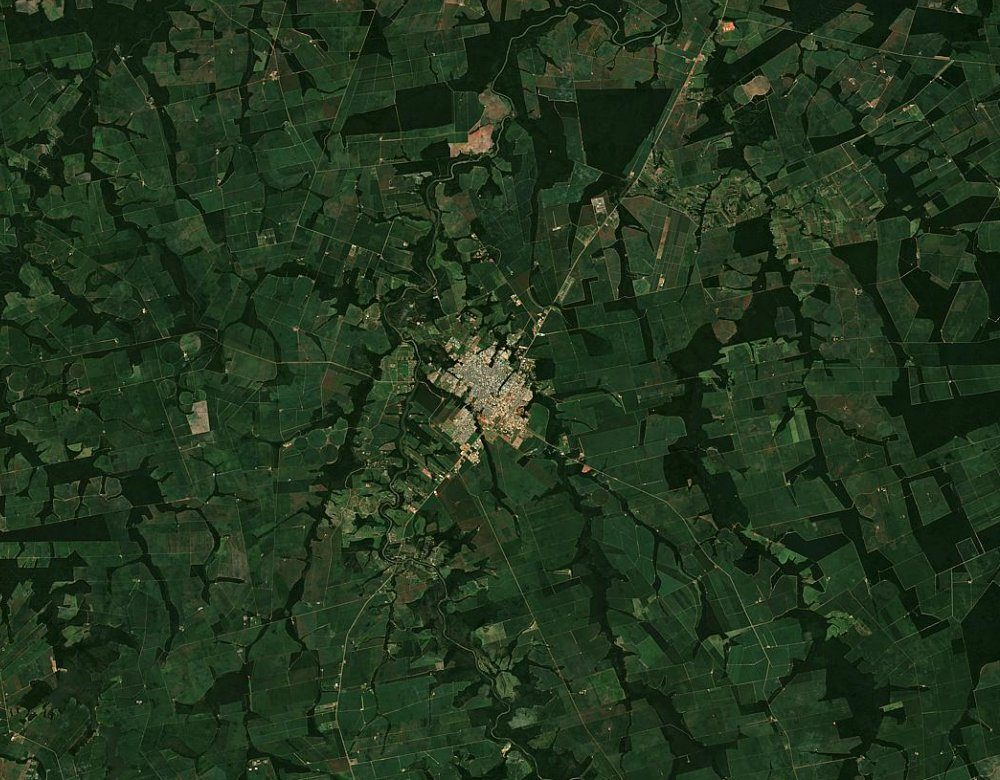
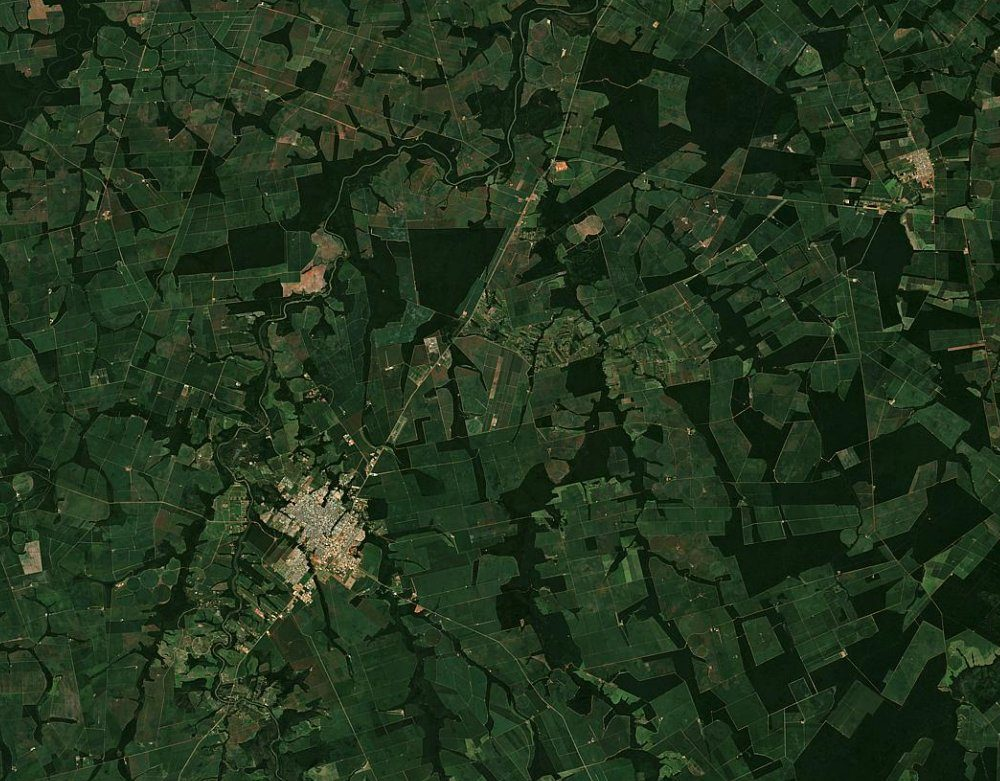
Add farm zoom level with sub-metre aerial imagery
Esri World Imagery for nine regions, USDA NAIP for Iowa; district and field views re-centred on the farm points.

diff --git a/src/components/SatPanel.tsx b/src/components/SatPanel.tsx
@@ -5,10 +5,10 @@ import type { Region, RegionImagery, View } from '../lib/types'
 import { signed, yieldDeviation } from '../lib/model'
 import { Badge } from './Badge'
 
-const LEVELS = ['orbit', 'region', 'district', 'field'] as const
+const LEVELS = ['orbit', 'region', 'district', 'field', 'farm'] as const
 type Level = (typeof LEVELS)[number]
-const LEVEL_LABEL: Record<Level, string> = { orbit: 'Orbit', region: 'Region', district: 'District', field: 'Field' }
-const SCALE: Record<Level, string> = { orbit: '~2,000 km', region: '~800 km', district: '~60 km', field: '~12 km' }
+const LEVEL_LABEL: Record<Level, string> = { orbit: 'Orbit', region: 'Region', district: 'District', field: 'Field', farm: 'Farm' }
+const SCALE: Record<Level, string> = { orbit: '~2,000 km', region: '~800 km', district: '~60 km', field: '~12 km', farm: '~2 km' }
 
 const fmtLat = (v: number) => `${Math.abs(v).toFixed(2)}°${v >= 0 ? 'N' : 'S'}`
 const fmtLon = (v: number) => `${Math.abs(v).toFixed(2)}°${v >= 0 ? 'E' : 'W'}`
@@ -106,7 +106,7 @@ export function SatPanel({ region, img, index }: { region: Region; img: RegionIm
       <div className="viewer">
         {view && (
           <div key={view.src + level} className="viewer-img">
-            <img src={view.src} alt={view.label} className={level === 'district' || level === 'field' ? 's2' : ''} />
+            <img src={view.src} alt={view.label} className={level === 'district' || level === 'field' ? 's2' : level === 'farm' ? 'farm' : ''} />
             {level === 'district' && overlay && views.districtNdvi && (
               <img src={views.districtNdvi.src} alt="NDVI overlay" className="overlay" />
             )}
@@ -124,7 +124,7 @@ export function SatPanel({ region, img, index }: { region: Region; img: RegionIm
           </>
         )}
         <div className="hud tl">{view?.label}</div>
-        <div className="hud tr">{level === 'region' && frames[frame] ? frames[frame].date : level === 'district' || level === 'field' ? '2023 mosaic' : frames.at(-1)?.date}</div>
+        <div className="hud tr">{level === 'region' && frames[frame] ? frames[frame].date : level === 'district' || level === 'field' ? '2023 mosaic' : level === 'farm' ? 'aerial basemap' : frames.at(-1)?.date}</div>
         <div className="hud bl">{focus ? `${fmtLat(focus.lat)}  ${fmtLon(focus.lon)}` : ''}<br />{focus?.place}</div>
         <div className="hud br">▭ {SCALE[level]}</div>
         <div className="brackets"><i /><i /><i /><i /></div>
@@ -145,8 +145,8 @@ export function SatPanel({ region, img, index }: { region: Region; img: RegionIm
             Overlay MODIS NDVI (250 m) on Sentinel-2 (10 m)
           </label>
         )}
-        {(level === 'orbit' || level === 'field') && (
-          <span className="small muted">{level === 'orbit' ? 'Green = dense vegetation. Box shows the region window.' : 'Individual fields, roads and plantation blocks at 10 m.'}</span>
+        {(level === 'orbit' || level === 'field' || level === 'farm') && (
+          <span className="small muted">{level === 'orbit' ? 'Green = dense vegetation. Box shows the region window.' : level === 'field' ? 'Individual fields, roads and plantation blocks at 10 m.' : `${img?.farm?.place ?? ''} — single rows, trees and machinery tracks.`}</span>
         )}
       </div>
 
@@ -175,7 +175,7 @@ export function SatPanel({ region, img, index }: { region: Region; img: RegionIm
 
       {img && <NdviCurve img={img} frame={frames[frame]?.date} />}
       <div className="src-line">
-        <Badge status="real" /> <span className="muted small">MODIS NDVI via NASA GIBS · Sentinel-2 cloudless 2023 by EOX (CC BY-NC-SA 4.0) · weather ERA5 via Open-Meteo</span>
+        <Badge status="real" /> <span className="muted small">MODIS NDVI via NASA GIBS · Sentinel-2 cloudless 2023 by EOX (CC BY-NC-SA 4.0) · farm: Esri World Imagery / USDA NAIP · weather ERA5 via Open-Meteo</span>
       </div>
     </div>
   )

diff --git a/src/index.css b/src/index.css
@@ -427,7 +427,7 @@ input[type='range']::-moz-range-thumb { width: 16px; height: 16px; border-radius
 .sat { display: flex; flex-direction: column; }
 .sat-title { padding: 12px 12px 10px; }
 .sat-name { font-size: 26px; letter-spacing: -0.03em; line-height: 1.02; }
-.zoom-tabs { display: grid; grid-template-columns: repeat(4, 1fr) auto; border-top: 1px solid var(--line); border-bottom: 1px solid var(--line); }
+.zoom-tabs { display: grid; grid-template-columns: repeat(5, 1fr) auto; border-top: 1px solid var(--line); border-bottom: 1px solid var(--line); }
 .zoom-tabs button { background: none; border: 0; border-right: 1px solid var(--line); padding: 7px 4px; font-size: 11px; cursor: pointer; color: var(--muted); }
 .zoom-tabs button.active { color: var(--ink); box-shadow: inset 0 -2px 0 var(--accent); }
 .zoom-tabs button:disabled { opacity: 0.3; cursor: default; }
@@ -497,3 +497,5 @@ input[type='range']::-moz-range-thumb { width: 16px; height: 16px; border-radius
 .alert i { width: 6px; height: 6px; border-radius: 50%; margin-top: 5px; background: var(--down); animation: blink 1.6s ease-in-out infinite; }
 .alert i.pos { background: var(--up); animation: none; }
 @keyframes blink { 50% { opacity: 0.25; } }
+
+.viewer-img img.farm { filter: contrast(1.05) saturate(1.1); }

diff --git a/src/lib/types.ts b/src/lib/types.ts
@@ -67,7 +67,8 @@ export interface RegionImagery {
   frames: Frame[]
   ndvi: [string, number | null][]
   ndviLastYear: [string, number | null][]
-  views: Partial<Record<'orbit' | 'region' | 'district' | 'districtNdvi' | 'field', View>>
+  views: Partial<Record<'orbit' | 'region' | 'district' | 'districtNdvi' | 'field' | 'farm', View>>
+  farm?: { lat: number; lon: number; place: string; source: string }
 }
 
 export interface ImageryFile {
@@ -75,7 +76,7 @@ export interface ImageryFile {
   dates: string[]
   world: Frame[]
   regions: Record<string, RegionImagery>
-  sources: { modis: string; s2: string }
+  sources: { modis: string; s2: string; farm?: string }
 }
 
 export interface RegionFile {

diff --git a/scripts/fetch_imagery.py b/scripts/fetch_imagery.py
@@ -144,7 +144,7 @@ def main() -> None:
             series_ly.append([d.isoformat(), mean_ndvi(b2, cmap) if b2 else None])
             time.sleep(0.2)
 
-        lat, lon, place = FOCUS[rid]
+        lat, lon, place = FARMS[rid] if rid in FARMS else FOCUS[rid]
         orbit_box = (max(-80, bbox[0] - 12), max(-180, bbox[1] - 22), min(84, bbox[2] + 12), min(180, bbox[3] + 22))
         views = {}
         b = wms(GIBS, "MODIS_Terra_NDVI_8Day", orbit_box, 900, latest.isoformat(), "image/png")
@@ -184,5 +184,51 @@ def main() -> None:
     print("done")
 
 
+
+
+# ---------------------------------------------------------------- farm level (sub-metre)
+# Farm points: a single farm / plantation block inside each region.
+FARMS = {
+    "eu-rapeseed": (53.30, 13.95, "Farmland near Prenzlau, Uckermark"),
+    "ca-canola": (51.50, -107.90, "Section farms near Rosetown, SK"),
+    "au-canola": (-34.90, 147.30, "Cropping farms, Riverina NSW"),
+    "us-cornbelt": (42.12, -93.40, "Corn & soy fields, Story County IA"),
+    "br-matogrosso": (-12.45, -55.60, "Soy farms near Sorriso MT"),
+    "br-saopaulo": (-21.25, -48.05, "Sugarcane blocks, Ribeirão Preto SP"),
+    "ar-pampas": (-33.95, -60.50, "Soy fields near Pergamino"),
+    "id-palm": (0.45, 101.75, "Oil-palm plantation, Riau"),
+    "in-cane": (29.50, 77.65, "Sugarcane smallholdings, Muzaffarnagar"),
+    "cn-uco": (30.27, 120.16, "Hangzhou: restaurants = UCO collection"),
+}
+ESRI = "https://server.arcgisonline.com/ArcGIS/rest/services/World_Imagery/MapServer/export"
+NAIP = "https://imagery.nationalmap.gov/arcgis/rest/services/USGSNAIPImagery/ImageServer/exportImage"
+
+
+def fetch_farms() -> None:
+    meta = json.loads((DATA / "imagery.json").read_text())
+    for rid, (lat, lon, place) in FARMS.items():
+        fb = box(lat, lon, 0.008)
+        la0, lo0, la1, lo1 = fb
+        us = rid == "us-cornbelt"
+        base = NAIP if us else ESRI
+        url = (f"{base}?bbox={lo0},{la0},{lo1},{la1}&bboxSR=4326&imageSR=4326&size=1100,{int(1100 * (la1 - la0) / (lo1 - lo0))}"
+               f"&format=jpg&f=image")
+        try:
+            b = get(url, 90)
+        except Exception as exc:  # noqa: BLE001
+            print("  farm fail", rid, exc)
+            continue
+        save(IMG / rid / "farm.jpg", b, quality=84)
+        src = "USDA NAIP aerial (~0.6 m), public domain" if us else "Esri World Imagery (sub-metre)"
+        meta["regions"][rid]["views"]["farm"] = {"src": f"/img/{rid}/farm.jpg", "bbox": fb, "label": f"Farm · {'NAIP 0.6 m' if us else 'aerial < 1 m'}"}
+        meta["regions"][rid]["farm"] = {"lat": lat, "lon": lon, "place": place, "source": src}
+        print("  farm", rid, len(b))
+    meta["sources"]["farm"] = "Esri World Imagery (Source: Esri, Maxar, Earthstar Geographics, and the GIS User Community); USDA NAIP via USGS (public domain)"
+    (DATA / "imagery.json").write_text(json.dumps(meta))
+
+
 if __name__ == "__main__":
-    main()
+    import sys
+    if sys.argv[-1] != "--farms":
+        main()
+    fetch_farms()

diff --git a/README.md b/README.md
@@ -8,7 +8,7 @@ A single-page dashboard that follows the chain *field → harvest → feedstock 
 - **Markets watchlist** — fuels (HVO, SAF, FAME, ethanol, diesel, Brent) and feedstocks (palm, soybean, rapeseed oil, UCO, corn, sugar), plus a regions tab and live satellite alerts.
 - **Instrument view** — price chart vs. diesel, 3M/1Y change, 12M range, volatility, linked supply regions.
 - **Global vegetation map** — 12 monthly MODIS NDVI frames as a time-lapse, supply regions highlighted for the selected product.
-- **Satellite intelligence** — zoom from orbit → region → district → single field (MODIS 250 m to Sentinel-2 10 m), 'fly in' animation, NDVI time-lapse, NDVI/Sentinel overlay, mean NDVI vs. last year decoded from the satellite frames, weather anomalies and a yield signal.
+- **Satellite intelligence** — zoom from orbit → region → district → field → single farm (MODIS 250 m → Sentinel-2 10 m → sub-metre aerial), 'fly in' animation, NDVI time-lapse, NDVI/Sentinel overlay, mean NDVI vs. last year decoded from the satellite frames, weather anomalies and a yield signal.
 - **Analysis tabs** — signal & credibility (scenario chain, value of a trusted signal), spreads, policy & demand (11 mandates), data & method.
 
 ## Data
@@ -16,6 +16,7 @@ A single-page dashboard that follows the chain *field → harvest → feedstock 
 |---|---|---|
 | Vegetation (NDVI) | NASA GIBS, MODIS Terra 8-day | real |
 | Field imagery | Sentinel-2 cloudless 2023 by EOX (CC BY-NC-SA 4.0) | real |
+| Farm imagery | Esri World Imagery (non-commercial demo use, attribution) · USDA NAIP (public domain) | real |
 | Weather | Open-Meteo historical API (ERA5) | real |
 | Feedstock & crude prices | World Bank Pink Sheet (monthly) | real |
 | Diesel | U.S. EIA, NY Harbor ULSD (monthly) | real |
